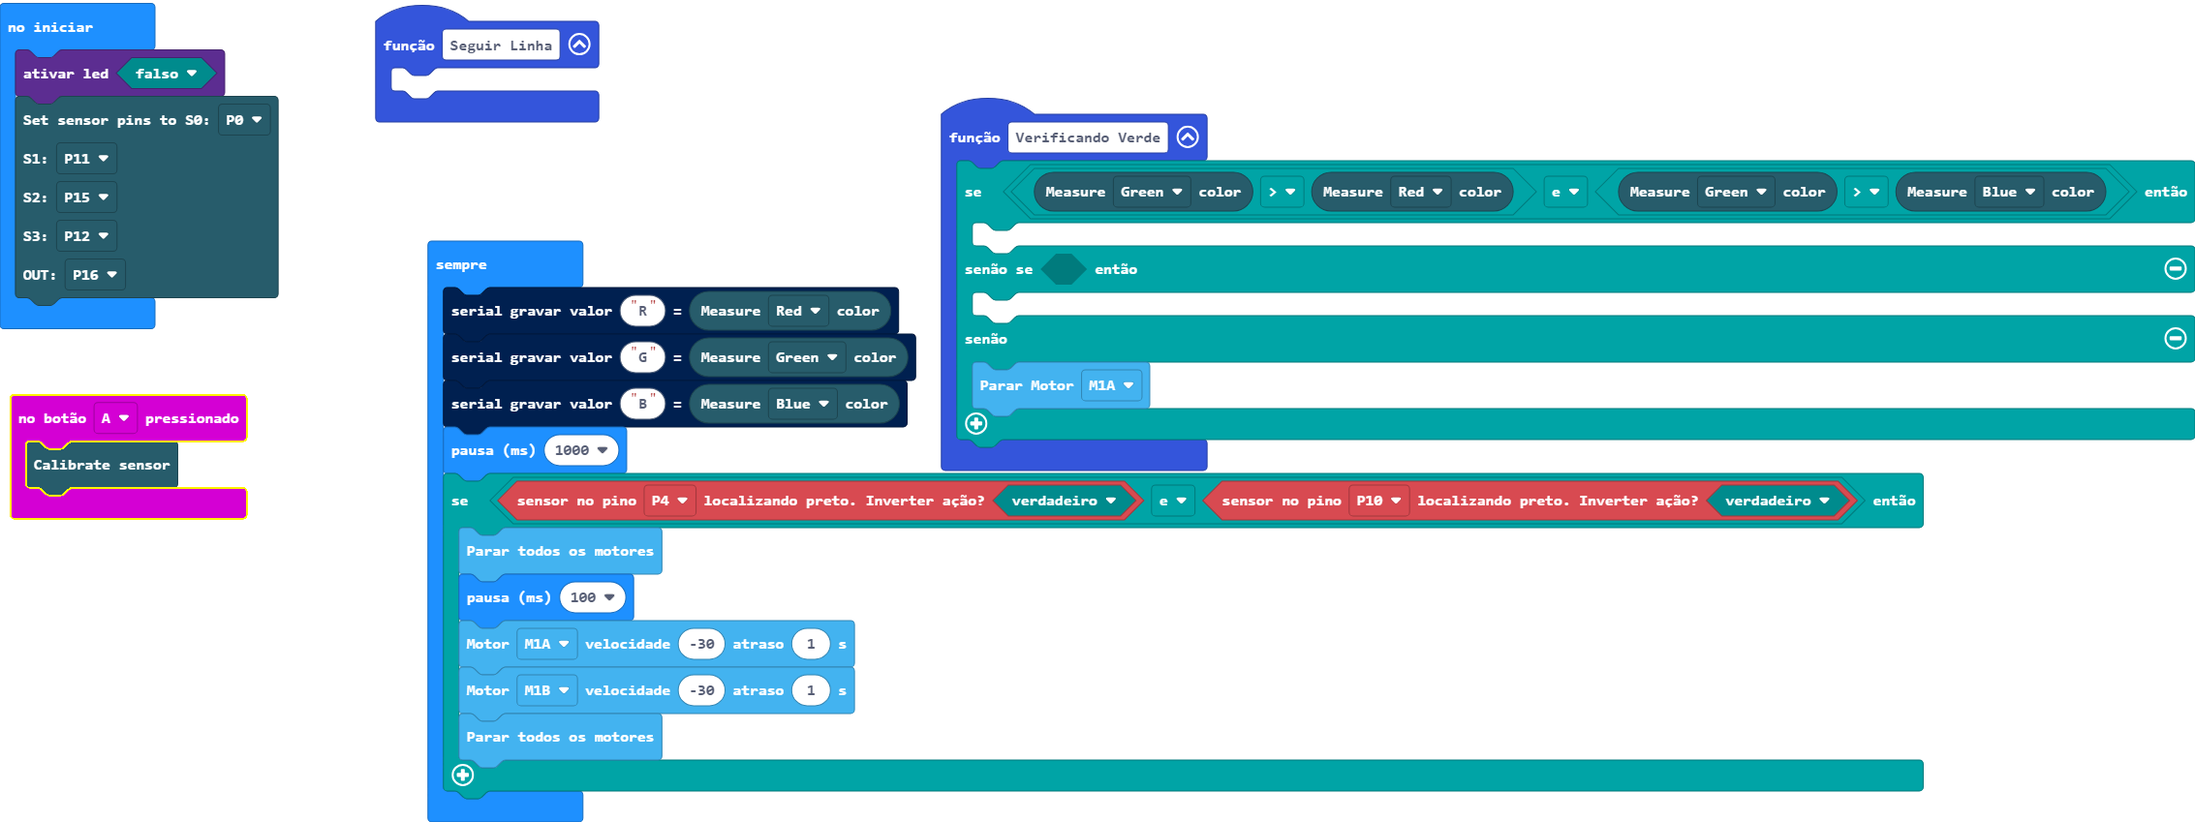
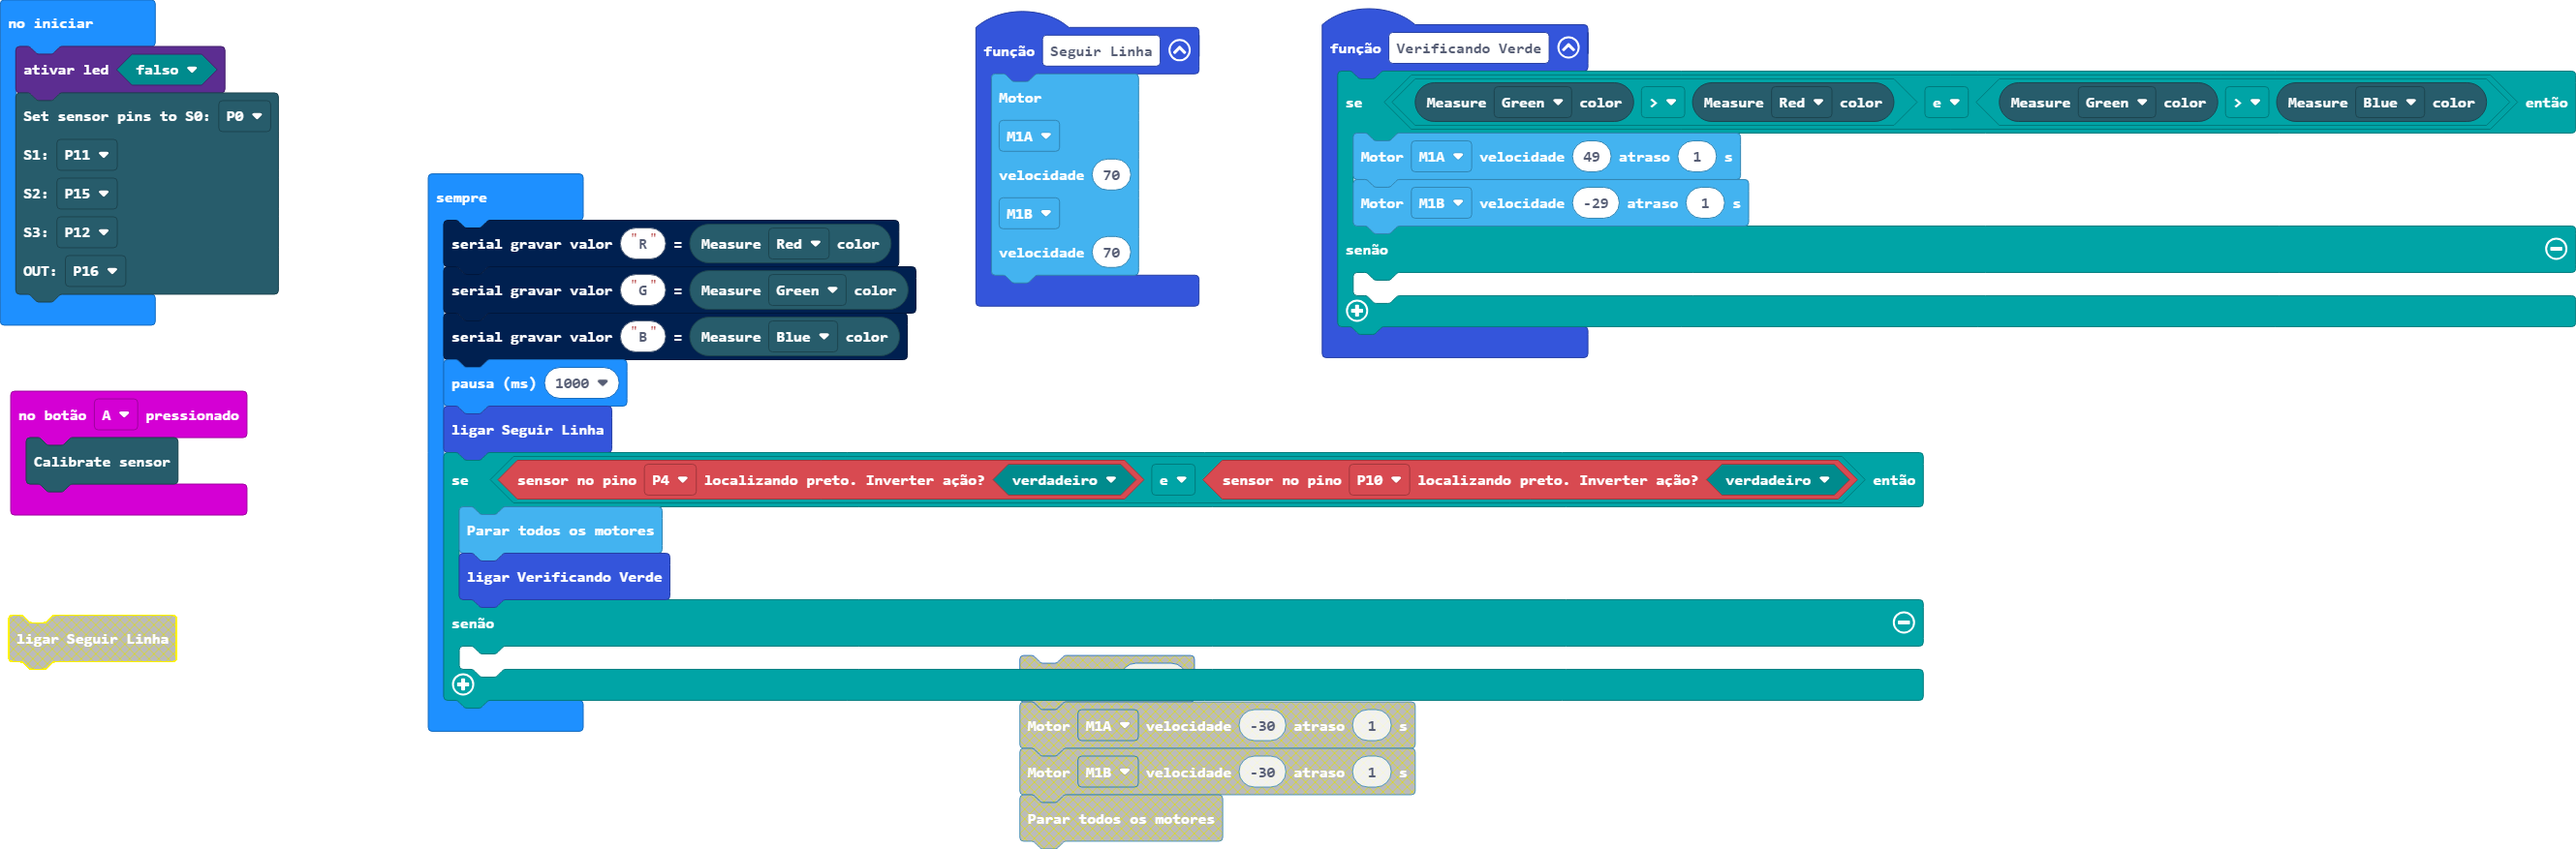
Atualizar 'main.blocks, main.ts'

diff --git a/main.ts b/main.ts
@@ -1,17 +1,21 @@
 function Verificando_Verde () {
     if (SENColor.getColor(color.green) > SENColor.getColor(color.red) && SENColor.getColor(color.green) > SENColor.getColor(color.blue)) {
-    	
-    } else if (false) {
-    	
+        hackbitmotors.MotorRunDelay(hackbitmotors.Motors.M1A, 49, 1)
+        hackbitmotors.MotorRunDelay(hackbitmotors.Motors.M1B, -29, 1)
     } else {
-        hackbitmotors.MotorStop(hackbitmotors.Motors.M1A)
+    	
     }
 }
 input.onButtonPressed(Button.A, function () {
     SENColor.calibrate()
 })
 function Seguir_Linha () {
-	
+    hackbitmotors.MotorRunDual(
+    hackbitmotors.Motors.M1A,
+    70,
+    hackbitmotors.Motors.M1B,
+    70
+    )
 }
 led.enable(false)
 SENColor.setPins(
@@ -26,11 +30,11 @@ basic.forever(function () {
     serial.writeValue("G", SENColor.getColor(color.green))
     serial.writeValue("B", SENColor.getColor(color.blue))
     basic.pause(1000)
+    Seguir_Linha()
     if (hackbitsensor.detectline(DigitalPin.P4, true) && hackbitsensor.detectline(DigitalPin.P10, true)) {
         hackbitmotors.MotorStopAll()
-        basic.pause(100)
-        hackbitmotors.MotorRunDelay(hackbitmotors.Motors.M1A, -30, 1)
-        hackbitmotors.MotorRunDelay(hackbitmotors.Motors.M1B, -30, 1)
-        hackbitmotors.MotorStopAll()
+        Verificando_Verde()
+    } else {
+    	
     }
 })
